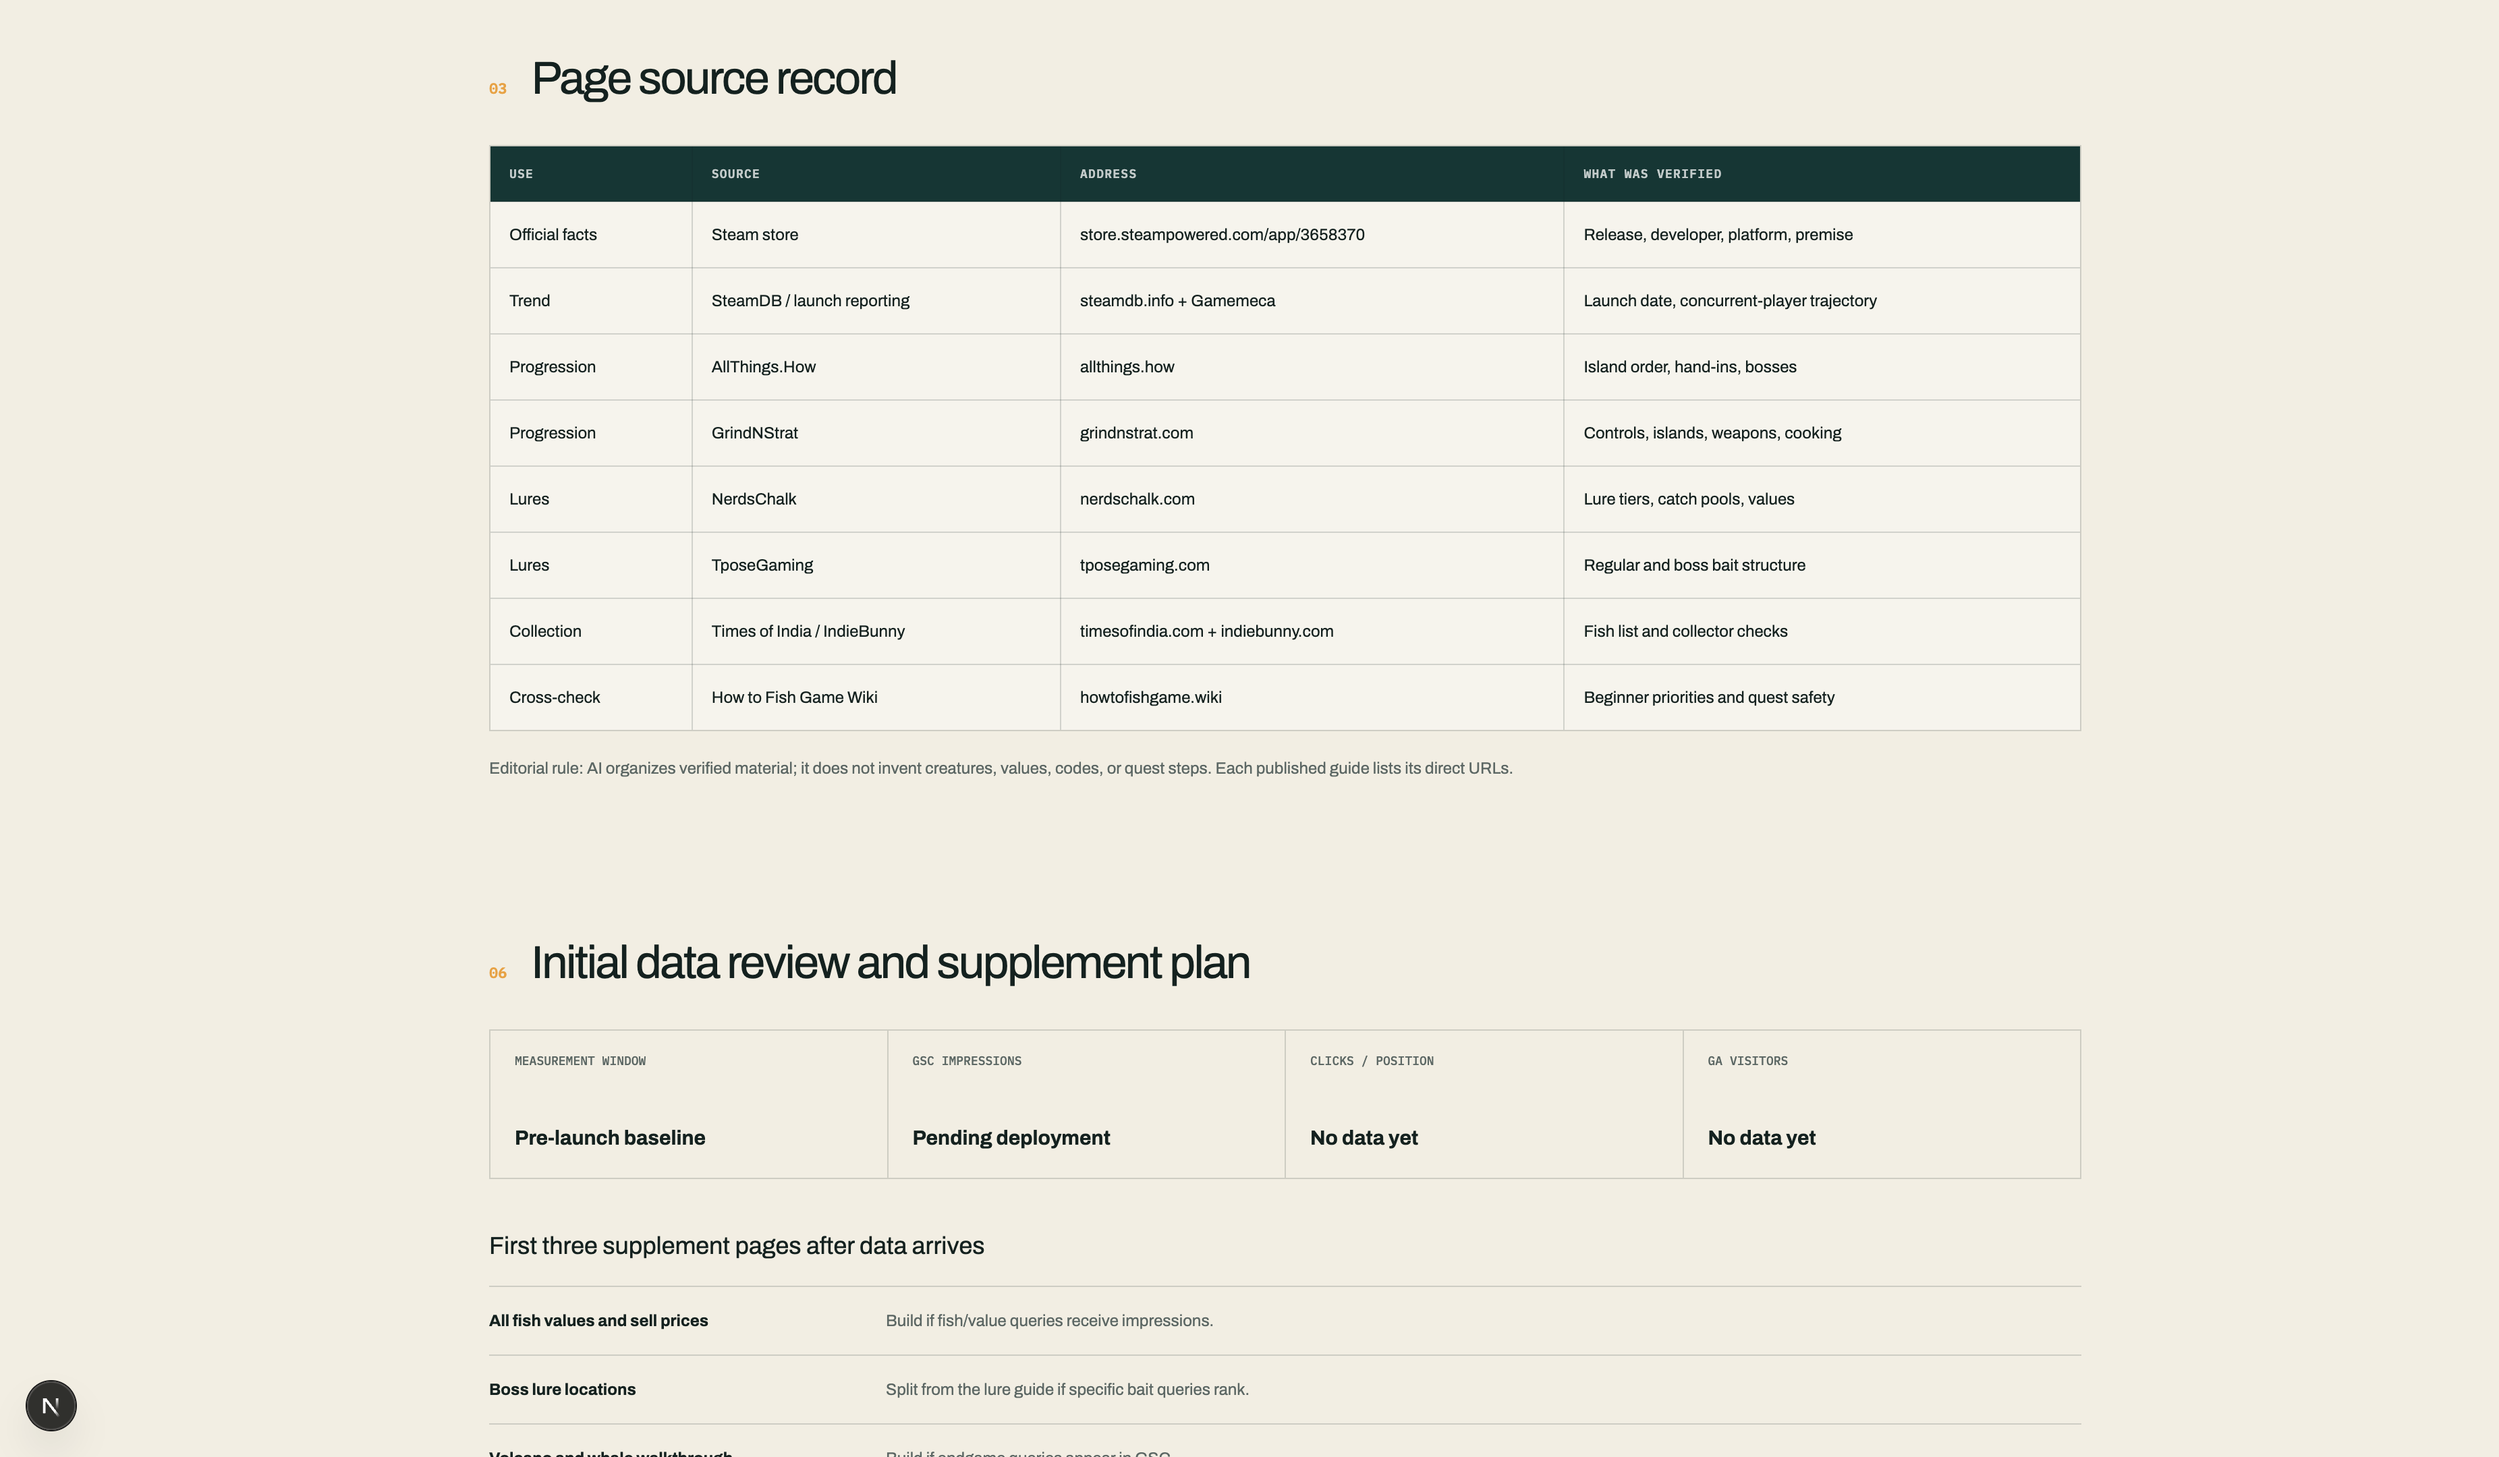
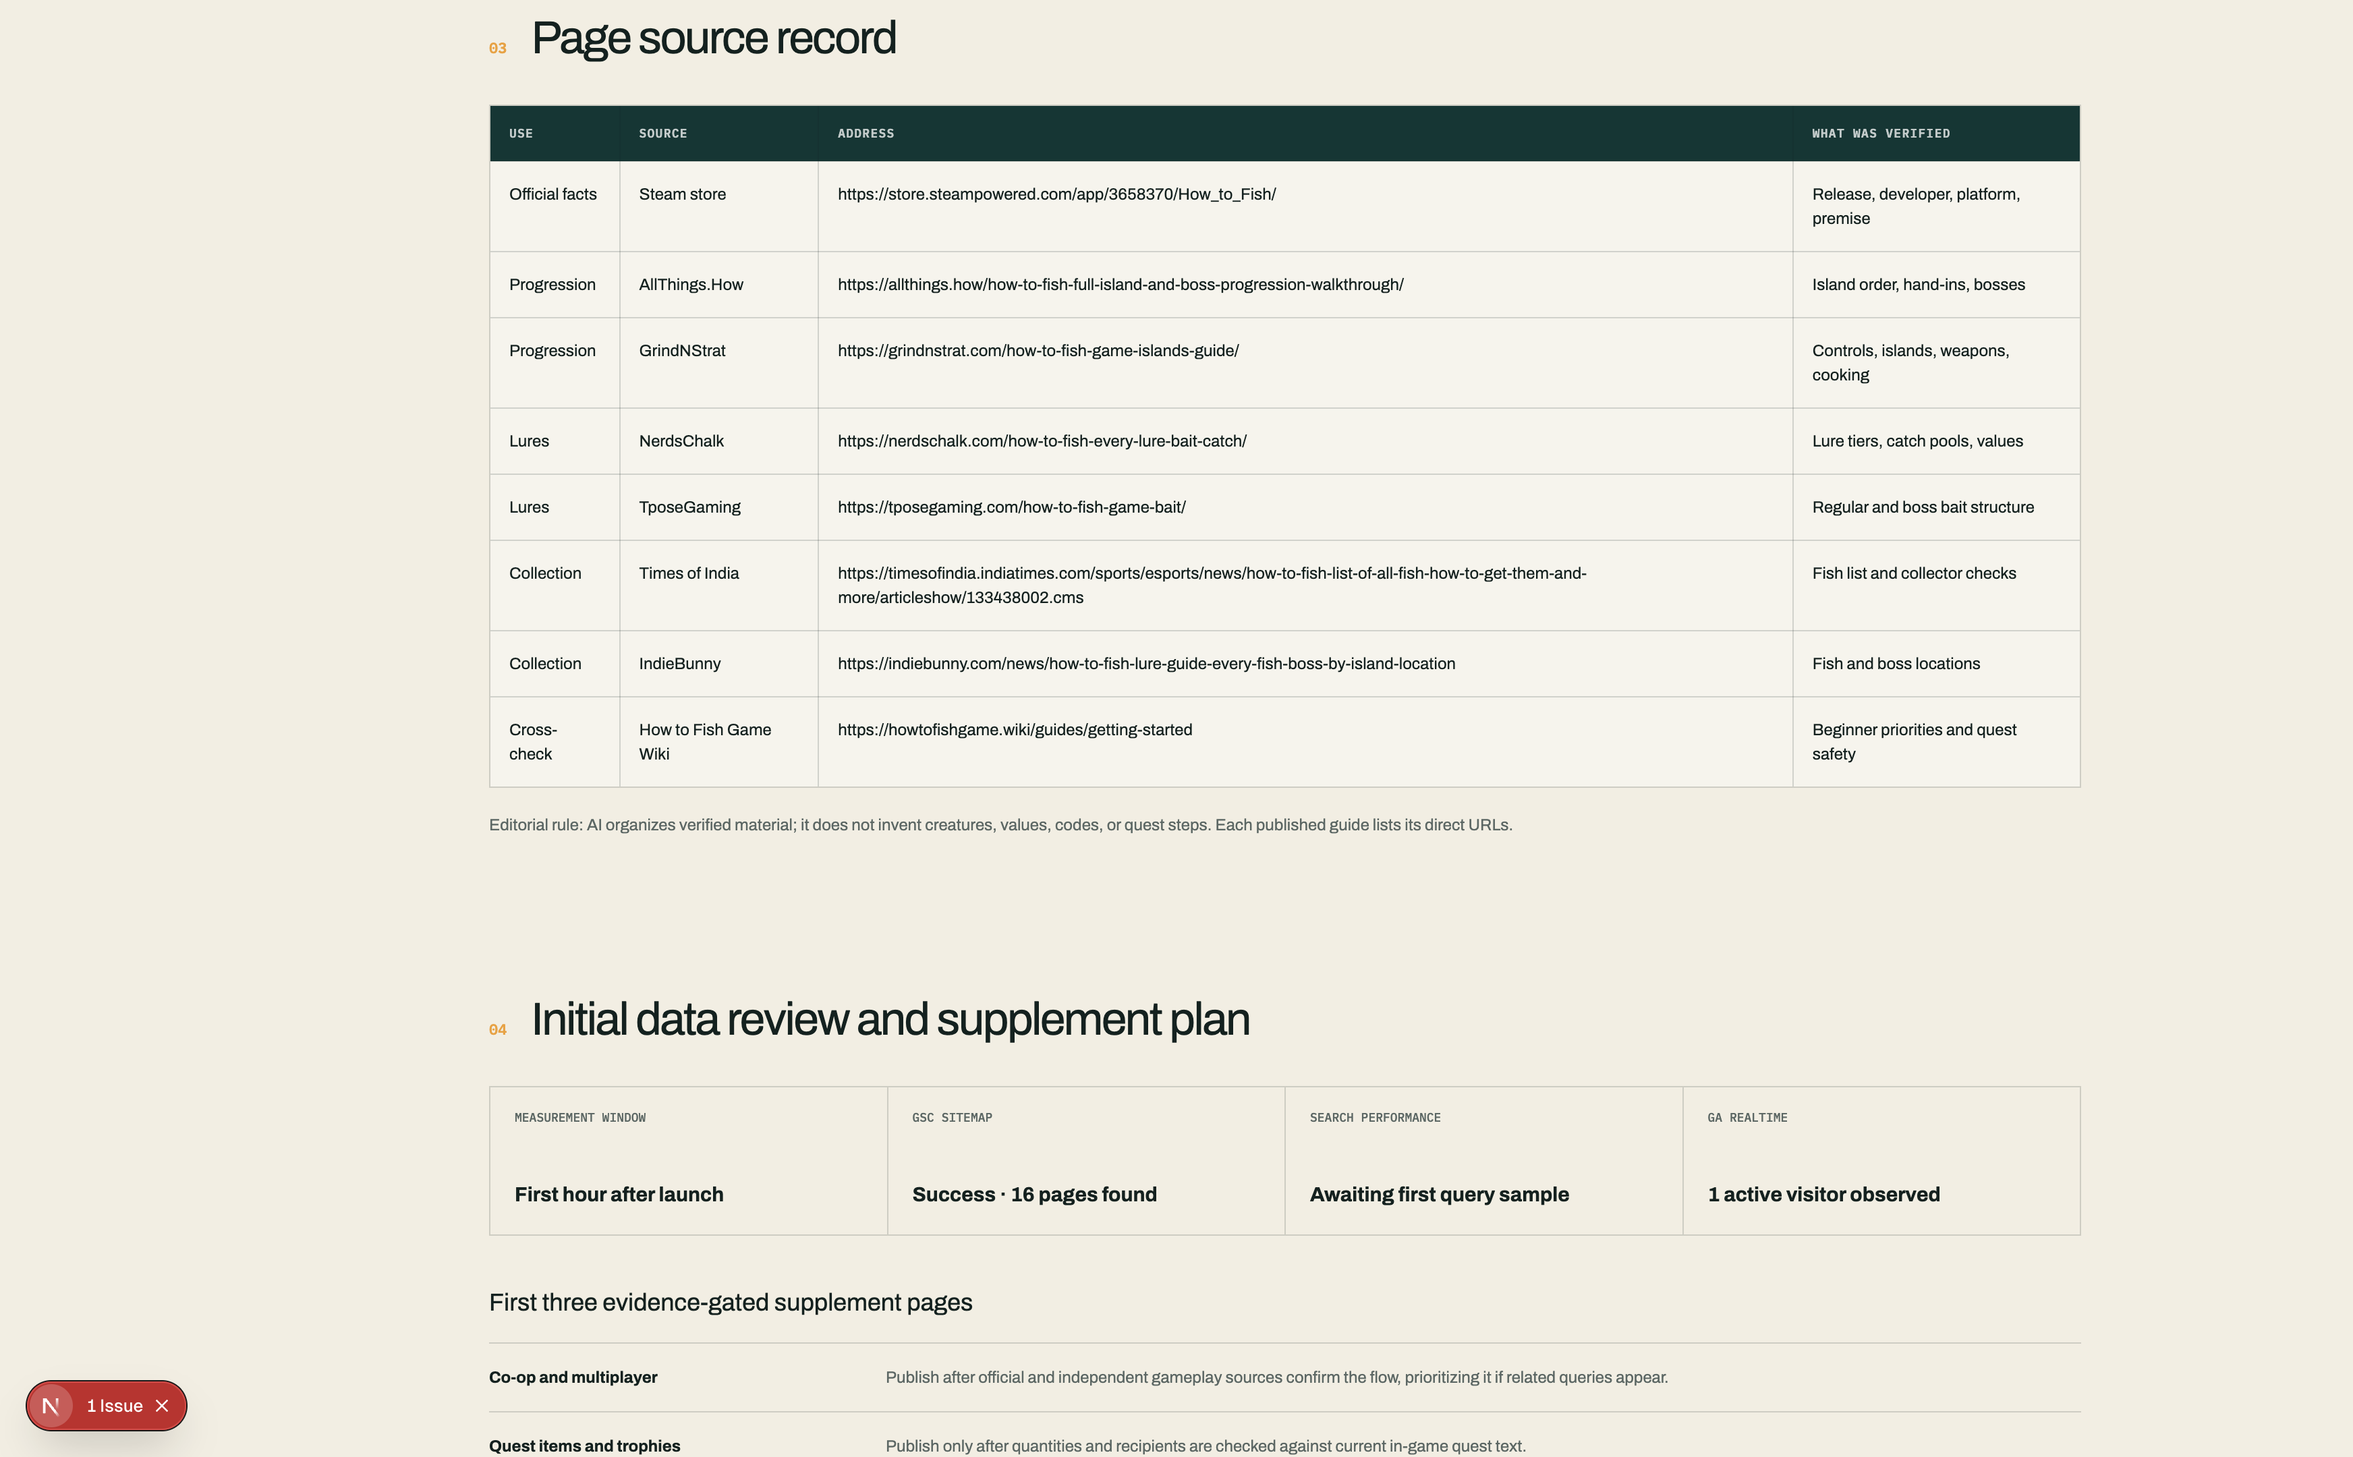
Sync verified launch evidence and SEO configuration.

diff --git a/src/app/research/page.tsx b/src/app/research/page.tsx
@@ -54,14 +54,14 @@ const matrix = [
 ];
 
 const sourceRows = [
-  ["Official facts", "Steam store", "store.steampowered.com/app/3658370", "Release, developer, platform, premise"],
-  ["Trend", "SteamDB / launch reporting", "steamdb.info + Gamemeca", "Launch date, concurrent-player trajectory"],
-  ["Progression", "AllThings.How", "allthings.how", "Island order, hand-ins, bosses"],
-  ["Progression", "GrindNStrat", "grindnstrat.com", "Controls, islands, weapons, cooking"],
-  ["Lures", "NerdsChalk", "nerdschalk.com", "Lure tiers, catch pools, values"],
-  ["Lures", "TposeGaming", "tposegaming.com", "Regular and boss bait structure"],
-  ["Collection", "Times of India / IndieBunny", "timesofindia.com + indiebunny.com", "Fish list and collector checks"],
-  ["Cross-check", "How to Fish Game Wiki", "howtofishgame.wiki", "Beginner priorities and quest safety"],
+  ["Official facts", "Steam store", "https://store.steampowered.com/app/3658370/How_to_Fish/", "Release, developer, platform, premise"],
+  ["Progression", "AllThings.How", "https://allthings.how/how-to-fish-full-island-and-boss-progression-walkthrough/", "Island order, hand-ins, bosses"],
+  ["Progression", "GrindNStrat", "https://grindnstrat.com/how-to-fish-game-islands-guide/", "Controls, islands, weapons, cooking"],
+  ["Lures", "NerdsChalk", "https://nerdschalk.com/how-to-fish-every-lure-bait-catch/", "Lure tiers, catch pools, values"],
+  ["Lures", "TposeGaming", "https://tposegaming.com/how-to-fish-game-bait/", "Regular and boss bait structure"],
+  ["Collection", "Times of India", "https://timesofindia.indiatimes.com/sports/esports/news/how-to-fish-list-of-all-fish-how-to-get-them-and-more/articleshow/133438002.cms", "Fish list and collector checks"],
+  ["Collection", "IndieBunny", "https://indiebunny.com/news/how-to-fish-lure-guide-every-fish-boss-by-island-location", "Fish and boss locations"],
+  ["Cross-check", "How to Fish Game Wiki", "https://howtofishgame.wiki/guides/getting-started", "Beginner priorities and quest safety"],
 ];
 
 export default function ResearchPage() {
@@ -154,22 +154,23 @@ export default function ResearchPage() {
         </div>
 
         <div className="research-block">
-          <div className="research-heading"><span>06</span><h2>Initial data review and supplement plan</h2></div>
+          <div className="research-heading"><span>04</span><h2>Initial data review and supplement plan</h2></div>
           <div className="review-grid">
-            <div><span>Measurement window</span><strong>Pre-launch baseline</strong></div>
-            <div><span>GSC impressions</span><strong>Pending deployment</strong></div>
-            <div><span>Clicks / position</span><strong>No data yet</strong></div>
-            <div><span>GA visitors</span><strong>No data yet</strong></div>
+            <div><span>Measurement window</span><strong>First hour after launch</strong></div>
+            <div><span>GSC sitemap</span><strong>Success · 16 pages found</strong></div>
+            <div><span>Search performance</span><strong>Awaiting first query sample</strong></div>
+            <div><span>GA realtime</span><strong>1 active visitor observed</strong></div>
           </div>
-          <h3>First three supplement pages after data arrives</h3>
+          <h3>First three evidence-gated supplement pages</h3>
           <ol className="supplement-list">
-            <li><strong>All fish values and sell prices</strong><span>Build if fish/value queries receive impressions.</span></li>
-            <li><strong>Boss lure locations</strong><span>Split from the lure guide if specific bait queries rank.</span></li>
-            <li><strong>Volcano and whale walkthrough</strong><span>Build if endgame queries appear in GSC.</span></li>
+            <li><strong>Co-op and multiplayer</strong><span>Publish after official and independent gameplay sources confirm the flow, prioritizing it if related queries appear.</span></li>
+            <li><strong>Quest items and trophies</strong><span>Publish only after quantities and recipients are checked against current in-game quest text.</span></li>
+            <li><strong>Fish prices and cooking</strong><span>Build from a tested price table, or split it out when price and cooking queries receive impressions.</span></li>
           </ol>
           <p className="method-note">
-            This is explicitly a pre-launch plan. Real figures will replace “pending” only
-            after deployment, GSC verification, sitemap submission, and GA traffic.
+            The first-hour sample proves deployment, Search Console, sitemap, and analytics
+            collection are connected; it does not prove rankings or content performance.
+            Page priorities will be revised when the first GSC query report is available.
           </p>
         </div>
       </section>

diff --git a/src/app/privacy/page.tsx b/src/app/privacy/page.tsx
@@ -11,7 +11,7 @@ export default function PrivacyPage() {
     <InfoPage
       eyebrow="Legal"
       title="Privacy policy"
-      intro="This policy describes the information a basic guide site may process. It will be updated before analytics or advertising is enabled."
+      intro="This policy describes the information Hook & Haul and its service providers may process."
       sections={[
         {
           title: "Basic server data",
@@ -19,7 +19,7 @@ export default function PrivacyPage() {
         },
         {
           title: "Analytics",
-          body: "If privacy-conscious analytics or Google Analytics is enabled, this page will identify the provider and available controls. No analytics identifier is active until it is explicitly configured.",
+          body: "Hook & Haul uses Google Analytics 4 to understand aggregate site usage. Google may process device, browser, approximate location, and interaction data under its own privacy terms. The site configures IP anonymization and does not use analytics data to sell personal information.",
         },
         {
           title: "External links",

diff --git a/src/app/page.tsx b/src/app/page.tsx
@@ -1,7 +1,12 @@
+import type { Metadata } from "next";
 import Link from "next/link";
 import { GuideCard } from "@/components/guide-card";
 import { FishMark, PageFrame } from "@/components/site-shell";
 import { guides } from "@/lib/guides";
+
+export const metadata: Metadata = {
+  alternates: { canonical: "/" },
+};
 
 export default function Home() {
   const featured = guides.slice(0, 6);
@@ -15,7 +20,7 @@ export default function Home() {
         </div>
         <div className="shell hero-grid">
           <div className="hero-copy">
-            <span className="eyebrow">Independent field guide · Updated daily</span>
+            <span className="eyebrow">Independent field guide · Updated Aug 25, 2026</span>
             <h1>
               Catch smarter.
               <br />

diff --git a/src/app/layout.tsx b/src/app/layout.tsx
@@ -15,7 +15,12 @@ const plexMono = IBM_Plex_Mono({
 });
 
 export const metadata: Metadata = {
-  metadataBase: new URL(process.env.NEXT_PUBLIC_SITE_URL ?? "https://hookandhaul.vercel.app"),
+  metadataBase: new URL(
+    process.env.NEXT_PUBLIC_SITE_URL ?? "https://how-to-fish-guide-mu.vercel.app",
+  ),
+  verification: {
+    google: "GcHdUjpDMNXHh259BUDUqo8uOewU6bmmEE9SL82oKOI",
+  },
   title: {
     default: "Hook & Haul — How to Fish Game Guides",
     template: "%s | Hook & Haul",

diff --git a/src/app/sitemap.ts b/src/app/sitemap.ts
@@ -1,7 +1,8 @@
 import type { MetadataRoute } from "next";
 import { guides } from "@/lib/guides";
 
-const baseUrl = process.env.NEXT_PUBLIC_SITE_URL ?? "https://hookandhaul.vercel.app";
+const baseUrl =
+  process.env.NEXT_PUBLIC_SITE_URL ?? "https://how-to-fish-guide-mu.vercel.app";
 
 export default function sitemap(): MetadataRoute.Sitemap {
   const updated = new Date("2026-08-25T00:00:00.000Z");

diff --git a/src/app/robots.ts b/src/app/robots.ts
@@ -1,6 +1,7 @@
 import type { MetadataRoute } from "next";
 
-const baseUrl = process.env.NEXT_PUBLIC_SITE_URL ?? "https://hookandhaul.vercel.app";
+const baseUrl =
+  process.env.NEXT_PUBLIC_SITE_URL ?? "https://how-to-fish-guide-mu.vercel.app";
 
 export default function robots(): MetadataRoute.Robots {
   return {

diff --git a/src/components/analytics.tsx b/src/components/analytics.tsx
@@ -1,8 +1,8 @@
 import Script from "next/script";
 
 export function Analytics() {
-  const measurementId = process.env.NEXT_PUBLIC_GA_ID;
-  if (!measurementId) return null;
+  const measurementId =
+    process.env.NEXT_PUBLIC_GA_ID ?? "G-S9Y1GGYZ2B";
 
   return (
     <>

diff --git a/coursework/README.md b/coursework/README.md
@@ -75,15 +75,14 @@
 
 ## 关卡 5：网站上线和数据接入结果
 
-待完成的外部账号步骤：
+完成状态：
 
-- 创建远程 GitHub 仓库并推送代码。
-- 导入 Vercel 并取得公开链接。
-- 设置 `NEXT_PUBLIC_SITE_URL`。
-- 在 GA4 创建 Web 数据流，设置 `NEXT_PUBLIC_GA_ID` 并重新部署。
-- 在 GSC 验证网站、请求首页索引并提交 `/sitemap.xml`。
-
-代码已经预留 GA4 环境变量并生成 `/robots.txt` 与 `/sitemap.xml`。账号授权成功后补入线上链接和验证截图。
+- 生产网站：`https://how-to-fish-guide-mu.vercel.app/`
+- GitHub：`https://github.com/rrchlmyx/how-to-fish-guide`
+- GSC：网址前缀资源已通过 HTML 元标记验证。
+- Sitemap：`/sitemap.xml` 已提交成功，GSC 首次读取发现 16 个网页。
+- GA4：衡量 ID `G-S9Y1GGYZ2B` 已接入，实时报告已收到访问。
+- 复核修正：原 sitemap 与 robots 的默认域名仍为旧占位地址，现已统一为实际生产域名并重新部署。
 
 本关收获文案：
 
@@ -91,15 +90,15 @@
 
 ## 关卡 6：数据复盘和补页计划
 
-初始复盘见：`research-workbook.png` 第四部分。
+首次上线复盘见：`06-data-review.png`。
 
-当前状态为网站上线前基线，因此 GSC 展示、点击、平均排名与搜索词均暂无真实数据，不能编造。
+当前可确认生产部署、GSC 验证、sitemap 读取和 GA4 实时采集链路均已打通。网站上线时间不足 1 天，GSC 尚未形成可用于判断自然搜索表现的曝光、点击、平均排名和查询词样本，因此不据首小时访问量判断 SEO 成败。
 
 首轮候选补页计划：
 
-1. All fish values and sell prices：当 fish/value 类搜索开始获得展示时建立完整价格页。
-2. Boss lure locations：当具体 bait/lure 查询有展示时，从现有诱饵页拆出独立页面。
-3. Volcano and whale walkthrough：当 endgame/whale 查询出现时补充独立终局攻略。
+1. Co-op / multiplayer：官方与实机来源核验完成，且 GSC 出现相关查询后优先发布。
+2. Quest items / trophies：按当前游戏内任务文本核验数量与交付对象后发布，避免复制冲突数值。
+3. Fish prices / cooking：完成实测价格表，或 GSC 出现 price/cooking 查询后从现有页面拆分。
 
 本关收获文案：
 
